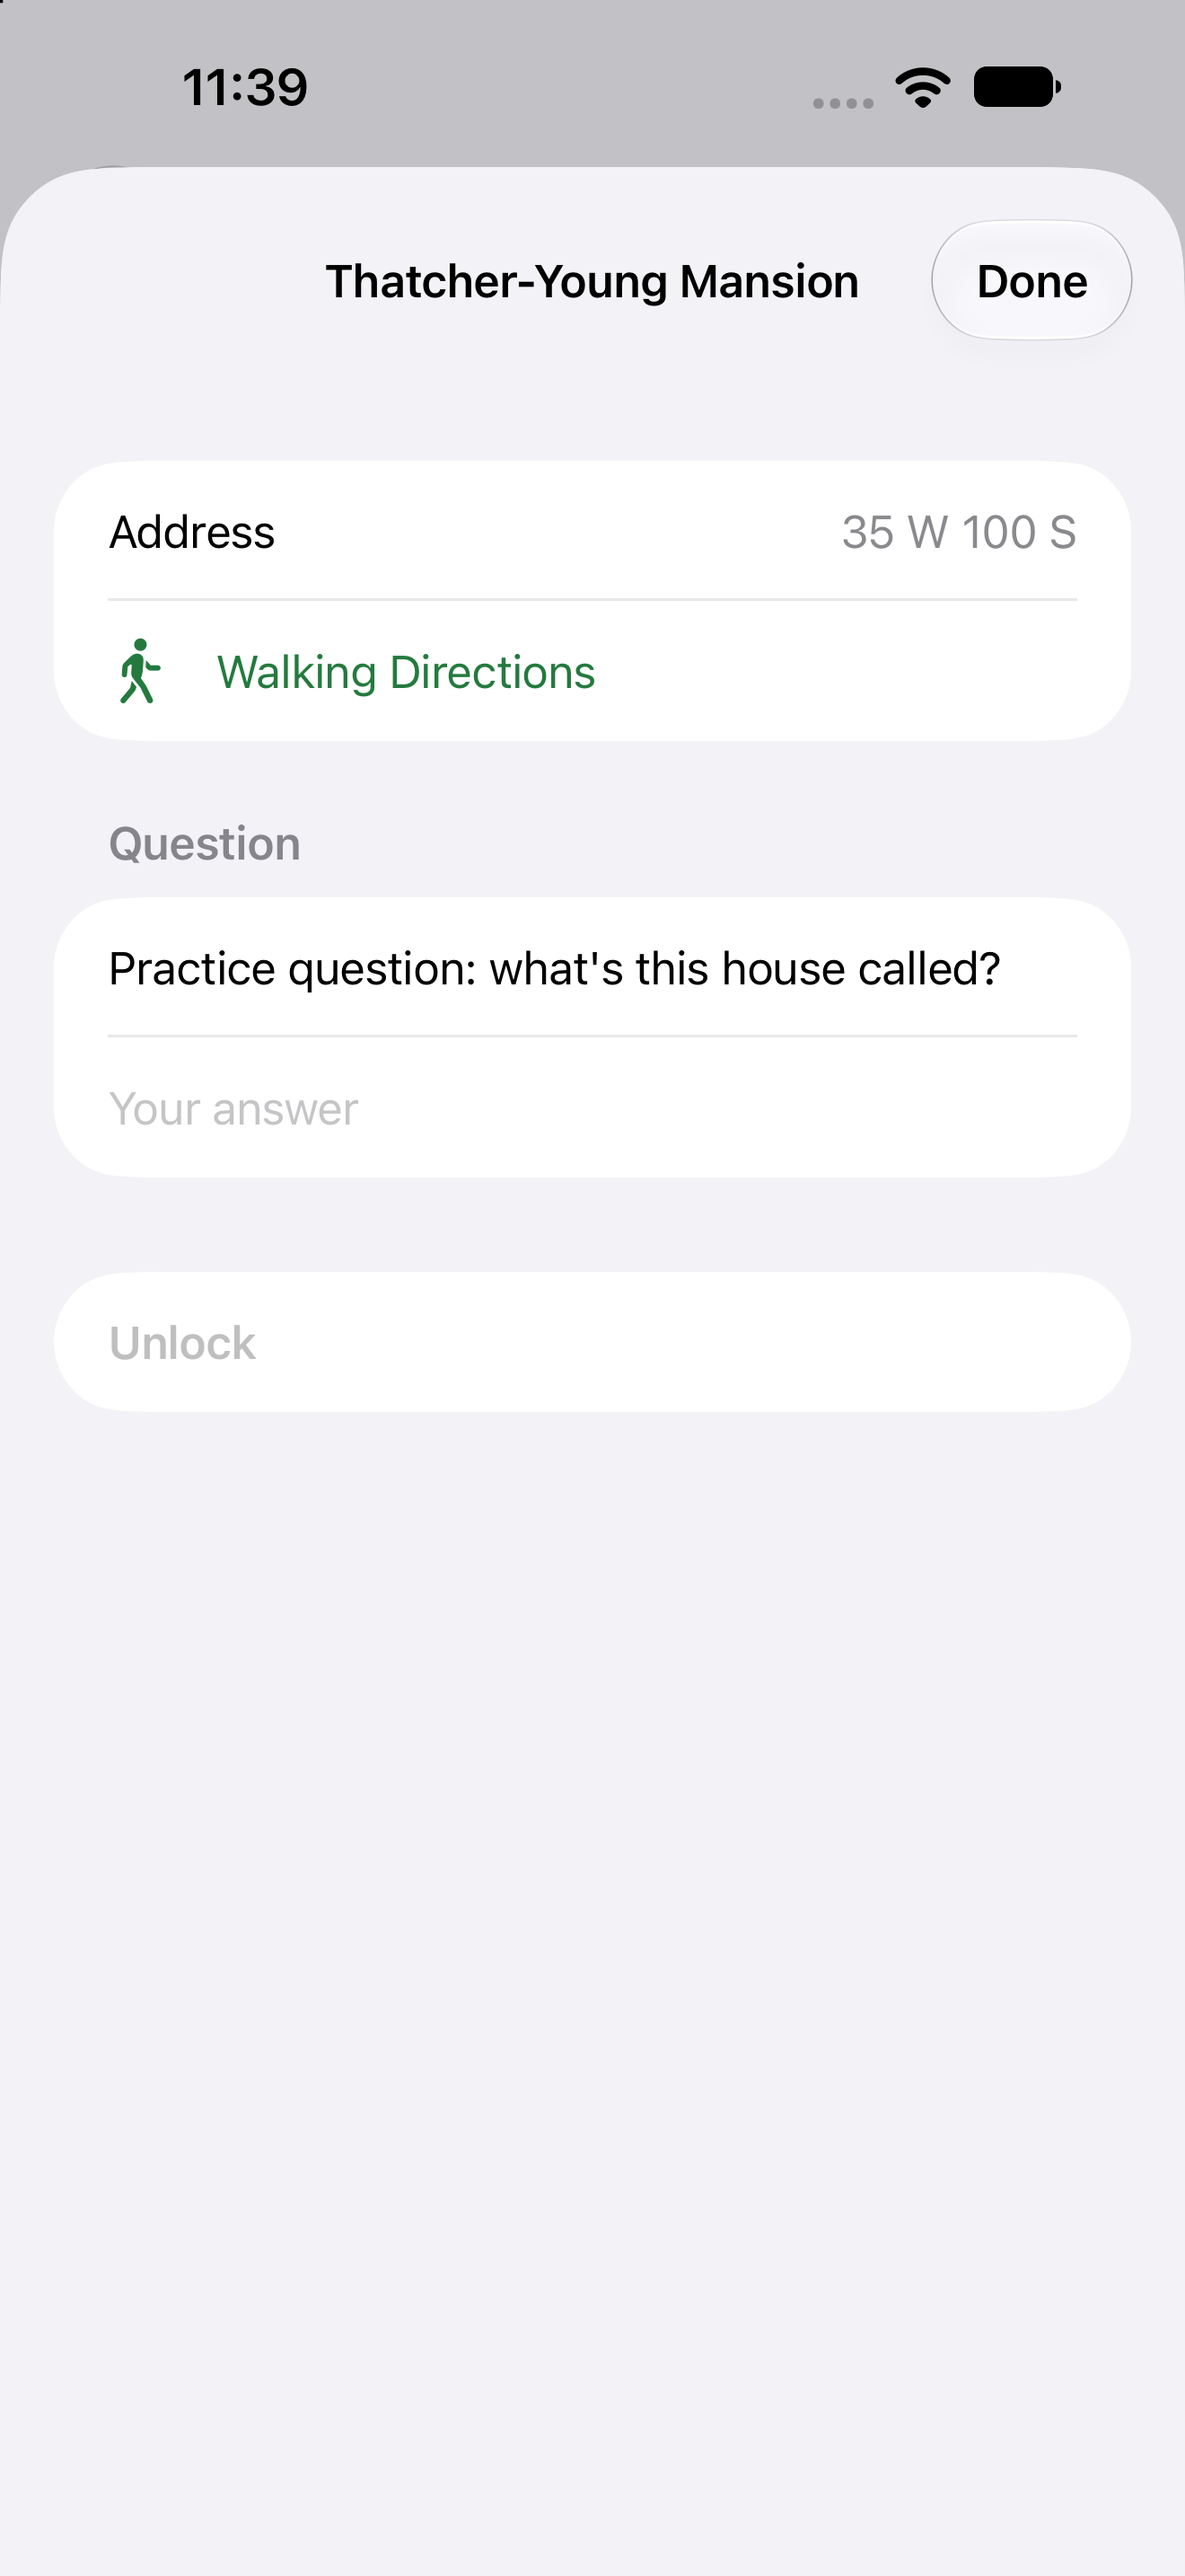
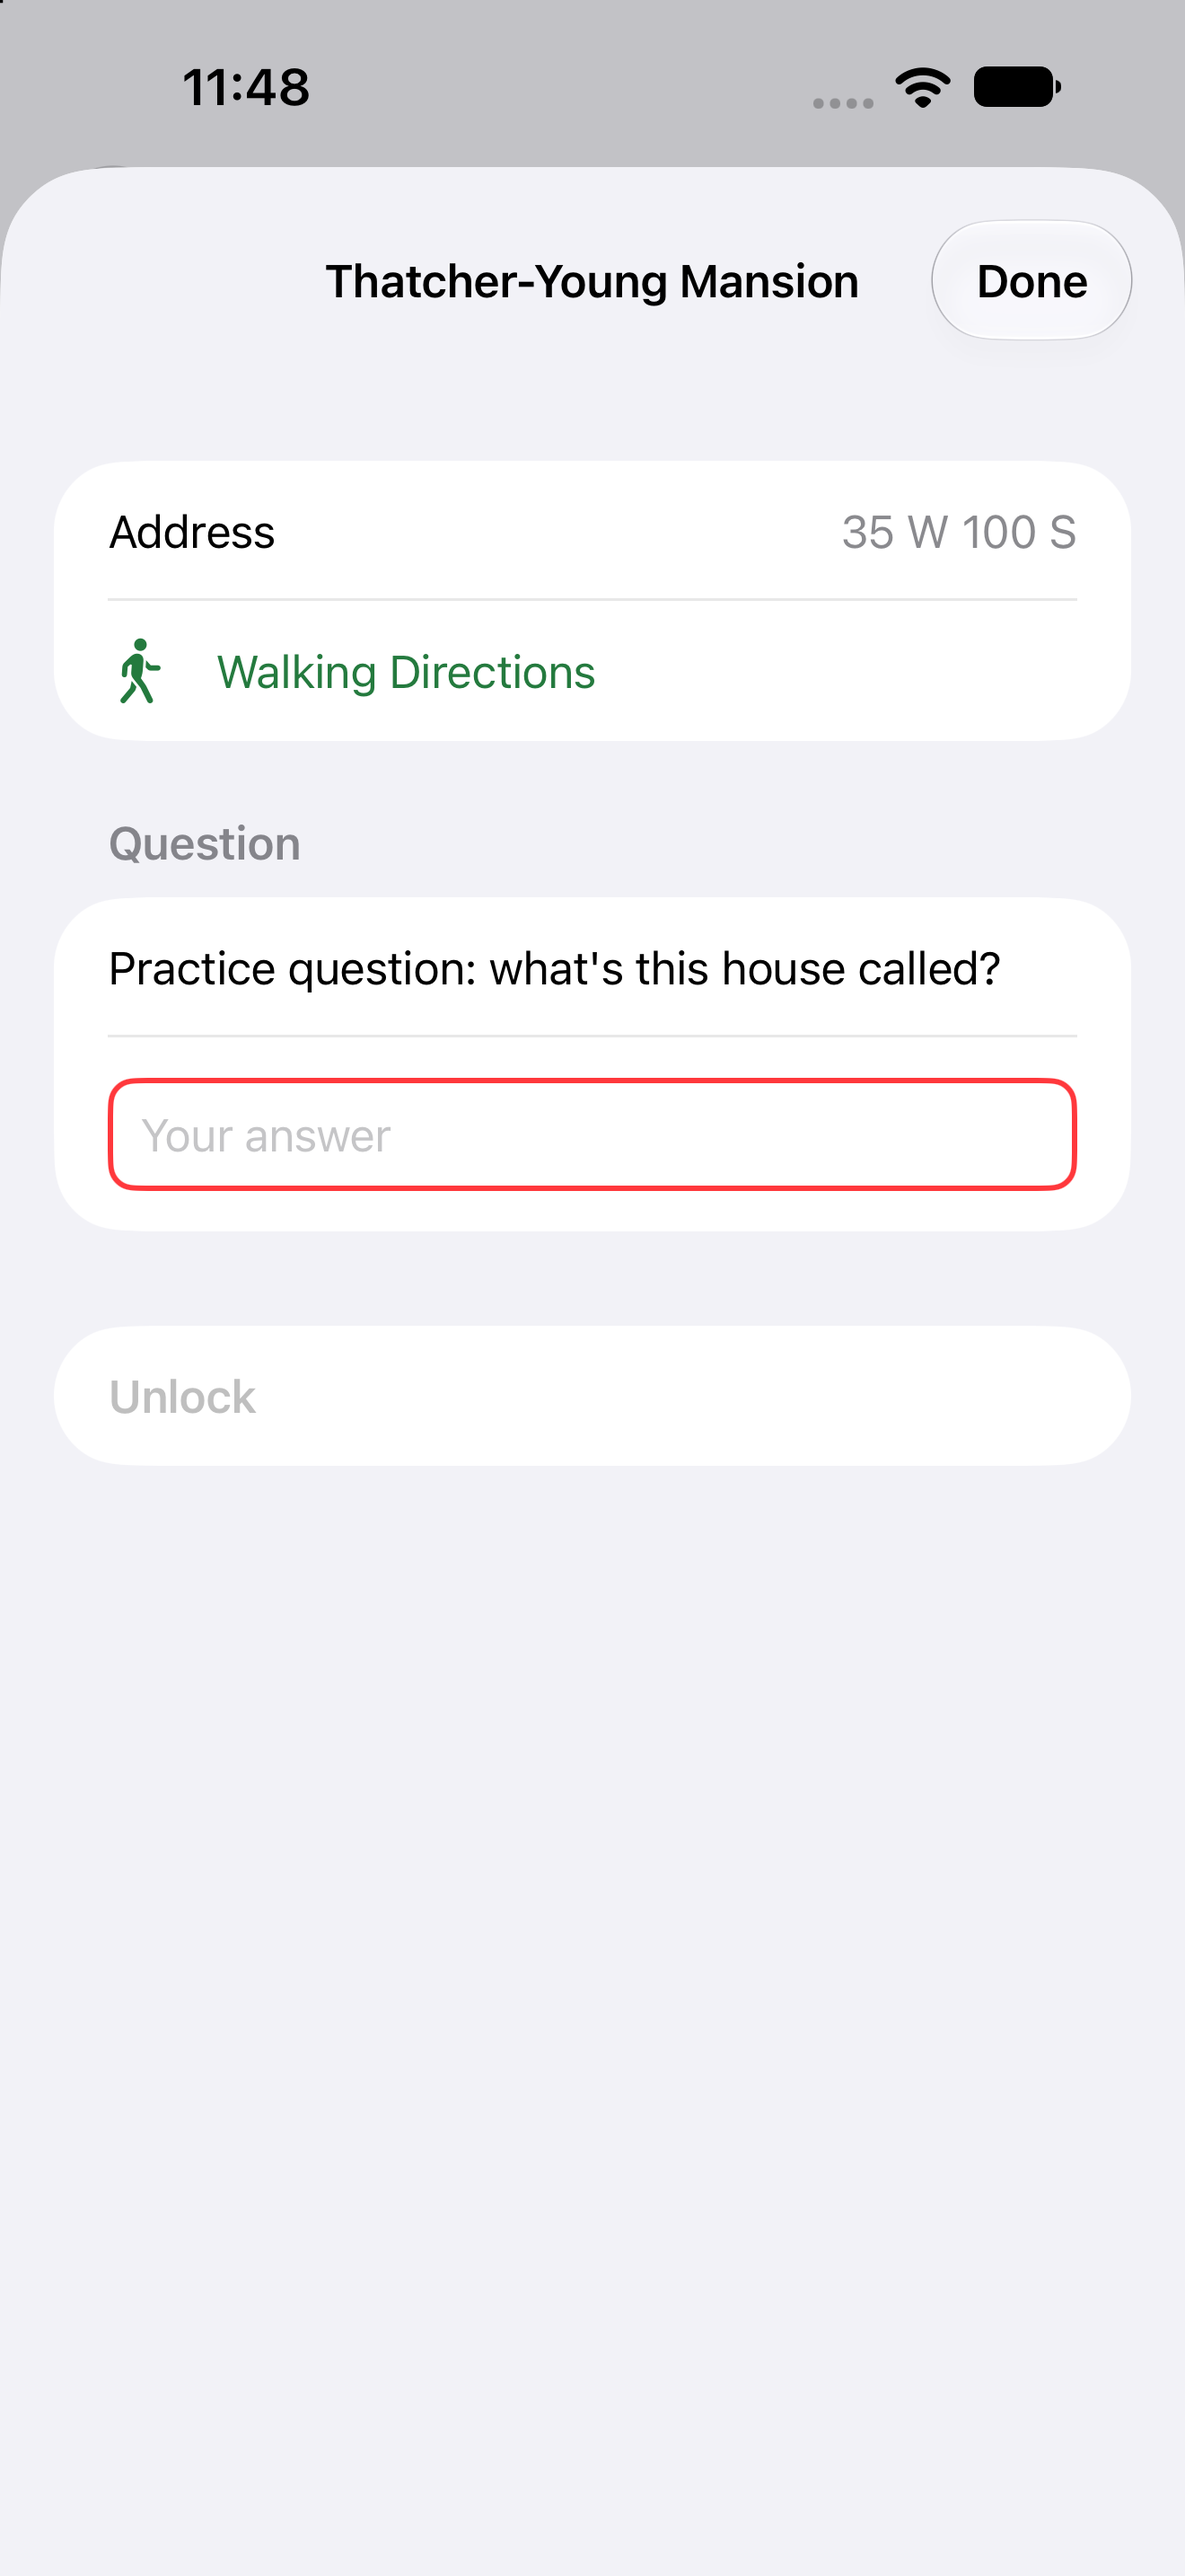
Outline the answer box in red, turning green when it's right
The box turns green with a checkmark as soon as what's typed is an
accepted answer, and stays up green while the stop unlocks. Retakes the
question screenshot to match.

diff --git a/LoganQuest/StopView.swift b/LoganQuest/StopView.swift
@@ -23,7 +23,8 @@ struct StopView: View {
                     }
                 }
 
-                if progress.isFound(stop, in: quest) {
+                // Just unlocked: the question stays up, outlined green, until the sheet closes.
+                if progress.isFound(stop, in: quest) && !justUnlocked {
                     Section {
                         Label("Unlocked", systemImage: "checkmark.seal.fill")
                             .font(.title3.bold())
@@ -32,12 +33,12 @@ struct StopView: View {
                 } else {
                     Section("Question") {
                         Text(stop.question)
-                        TextField("Your answer", text: $answer)
-                            .focused($answerFocused)
-                            .autocorrectionDisabled()
-                            .submitLabel(.done)
-                            .onSubmit(check)
-                        if wrongTries > 0 {
+                        answerField
+                        if justUnlocked {
+                            Label("Unlocked!", systemImage: "checkmark.seal.fill")
+                                .bold()
+                                .foregroundStyle(.green)
+                        } else if wrongTries > 0 {
                             Text("Not quite. Look around and try again.")
                                 .foregroundStyle(.red)
                         }
@@ -45,7 +46,7 @@ struct StopView: View {
                     Section {
                         Button("Unlock", action: check)
                             .bold()
-                            .disabled(answer.trimmingCharacters(in: .whitespaces).isEmpty)
+                            .disabled(answer.trimmingCharacters(in: .whitespaces).isEmpty || justUnlocked)
                     }
                 }
             }
@@ -59,6 +60,32 @@ struct StopView: View {
             .sensoryFeedback(.success, trigger: justUnlocked)
             .sensoryFeedback(.error, trigger: wrongTries)
         }
+    }
+
+    /// The answer box: outlined red, turning green (with a checkmark) once what's typed is right.
+    private var answerField: some View {
+        let isRight = justUnlocked || stop.unlocks(with: answer)
+        return HStack {
+            TextField("Your answer", text: $answer)
+                .focused($answerFocused)
+                .autocorrectionDisabled()
+                .submitLabel(.done)
+                .onSubmit(check)
+                .disabled(justUnlocked)
+            if isRight {
+                Image(systemName: "checkmark.circle.fill")
+                    .foregroundStyle(.green)
+                    .accessibilityLabel("Right answer")
+                    .transition(.scale.combined(with: .opacity))
+            }
+        }
+        .padding(.horizontal, 12)
+        .padding(.vertical, 10)
+        .overlay {
+            RoundedRectangle(cornerRadius: 10, style: .continuous)
+                .strokeBorder(isRight ? Color.green : Color.red, lineWidth: 2)
+        }
+        .animation(.easeInOut(duration: 0.2), value: isRight)
     }
 
     private func check() {

diff --git a/README.md b/README.md
@@ -5,7 +5,7 @@ An iPhone app of scavenger hunts around Logan, Utah. Players walk to each stop o
 ## What's in the app
 
 - **Quests** (home screen): every quest, how long it takes to walk, and how far along you are. Downtown Logan is the first one; add more in `LoganQuest/Quest.swift`.
-- **A quest**: a map of its numbered stops and the list to unlock them. Each quest is a loop: visit the stops in order and you end up back at the first one. Each stop has walking directions and its question. A quest can come in difficulties (Easy, Medium, Hard), picked at the top of its screen. Each harder one keeps the easier one's stops and adds more, and a stop found on one difficulty counts on all of them.
+- **A quest**: a map of its numbered stops and the list to unlock them. Each quest is a loop: visit the stops in order and you end up back at the first one. Each stop has walking directions and its question. The answer box is outlined red and turns green (with a checkmark) as soon as what's typed is right. A quest can come in difficulties (Easy, Medium, Hard), picked at the top of its screen. Each harder one keeps the easier one's stops and adds more, and a stop found on one difficulty counts on all of them.
 - **Downtown Logan**: three difficulties, each a loop from the Logan Tabernacle and back. Walking times are Apple Maps' estimates, not counting time spent at each stop.
   - **Easy** (5 stops, about 20 minutes, 0.9 mi): Logan Tabernacle → Old Cache County Courthouse → Umbrella Alley → Thatcher-Young Mansion → Ellen Eccles Theatre.
   - **Medium** (9 stops, about 30 minutes, 1.4 mi) adds St. John's Episcopal Church, the Cache Pioneer Museum, Logan Library and the Caine Lyric Theatre: Tabernacle → St. John's → Pioneer Museum → Library → Courthouse → Umbrella Alley → Caine Lyric → Thatcher-Young → Ellen Eccles.
